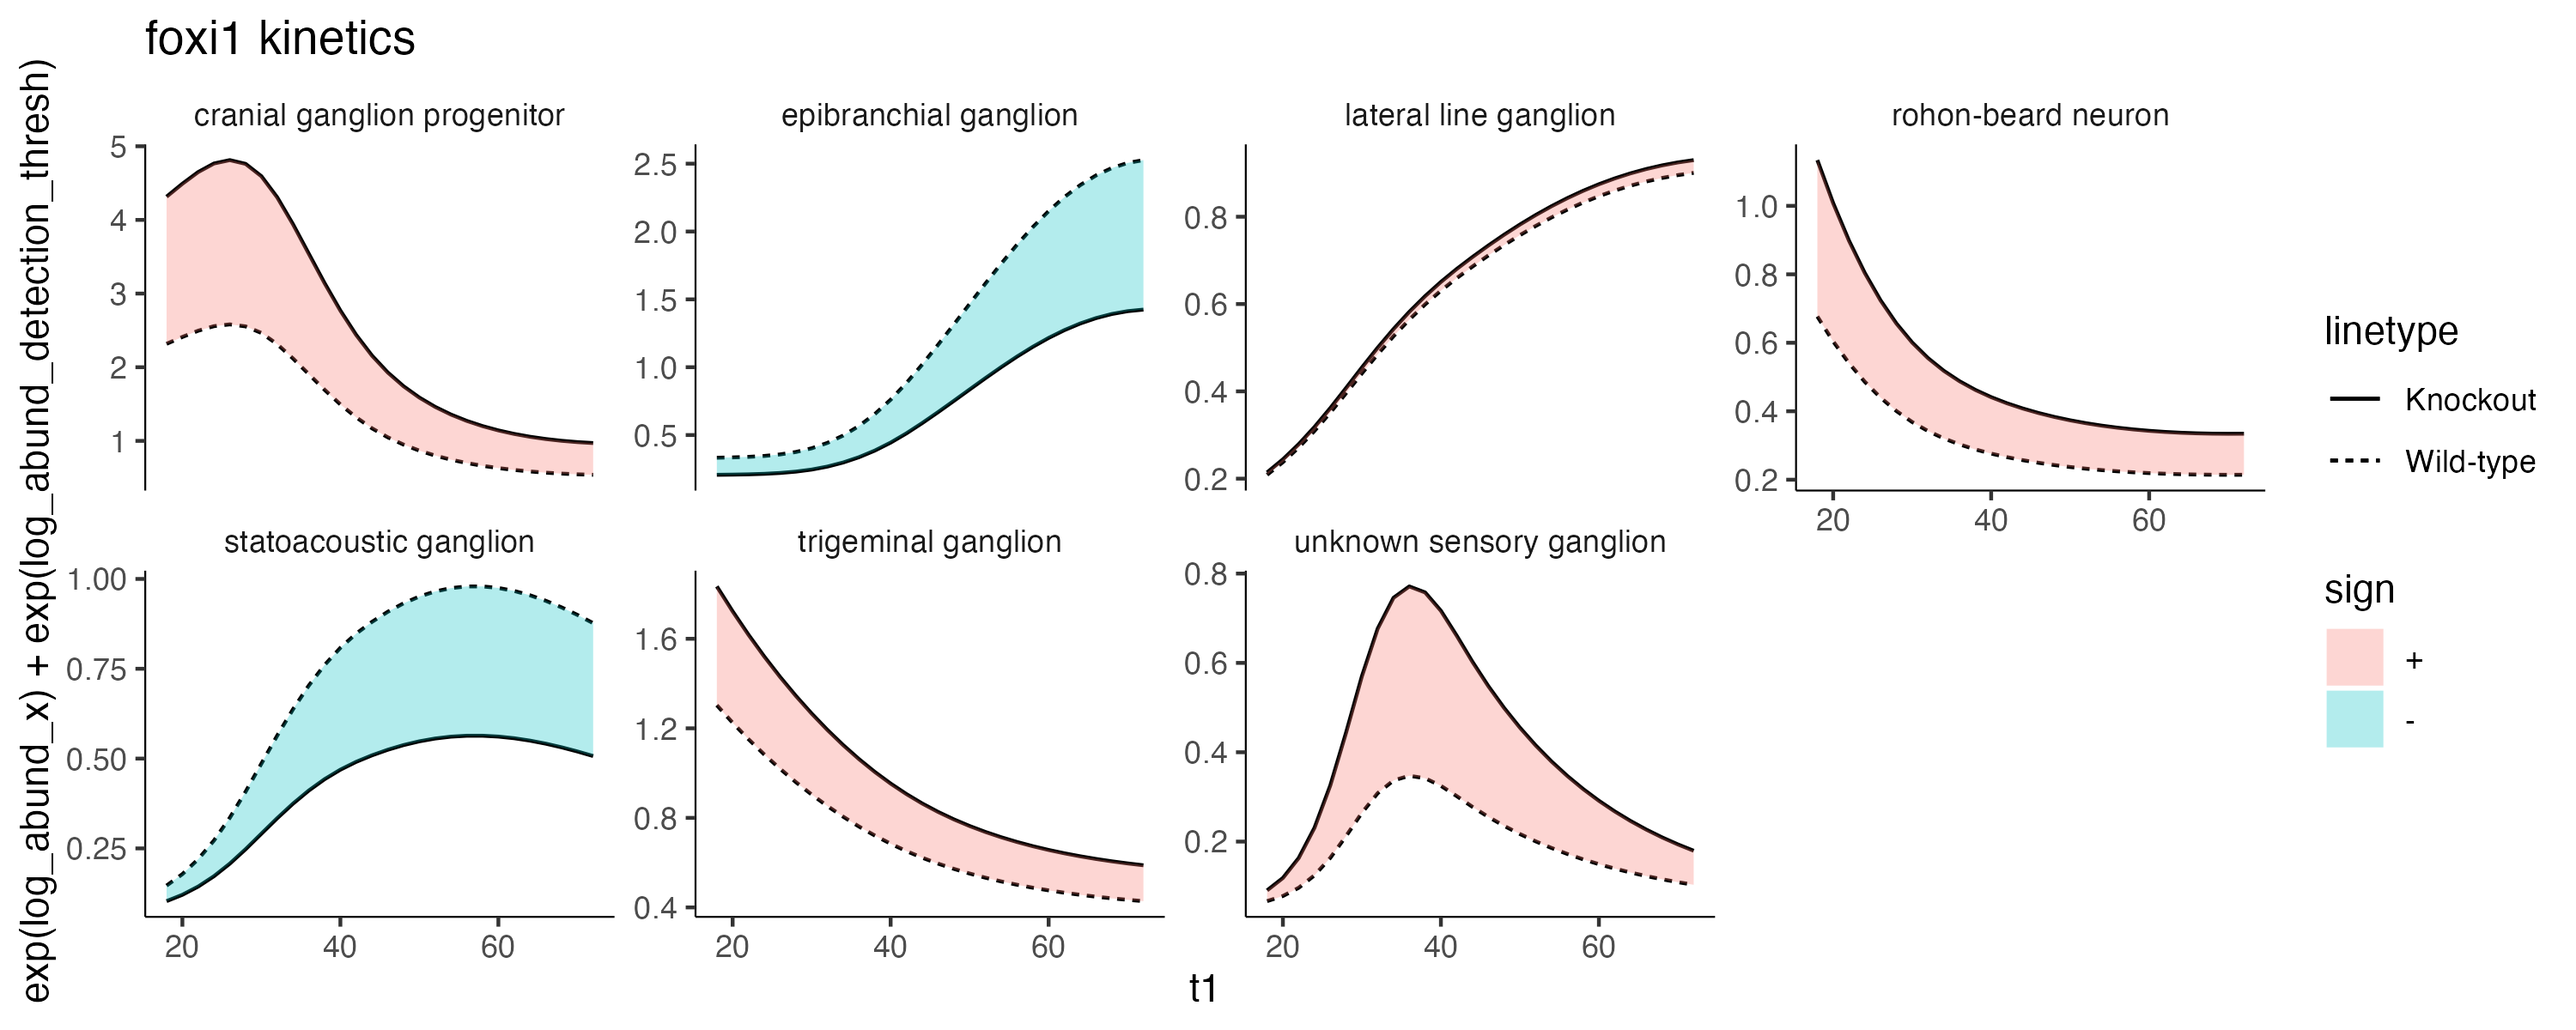
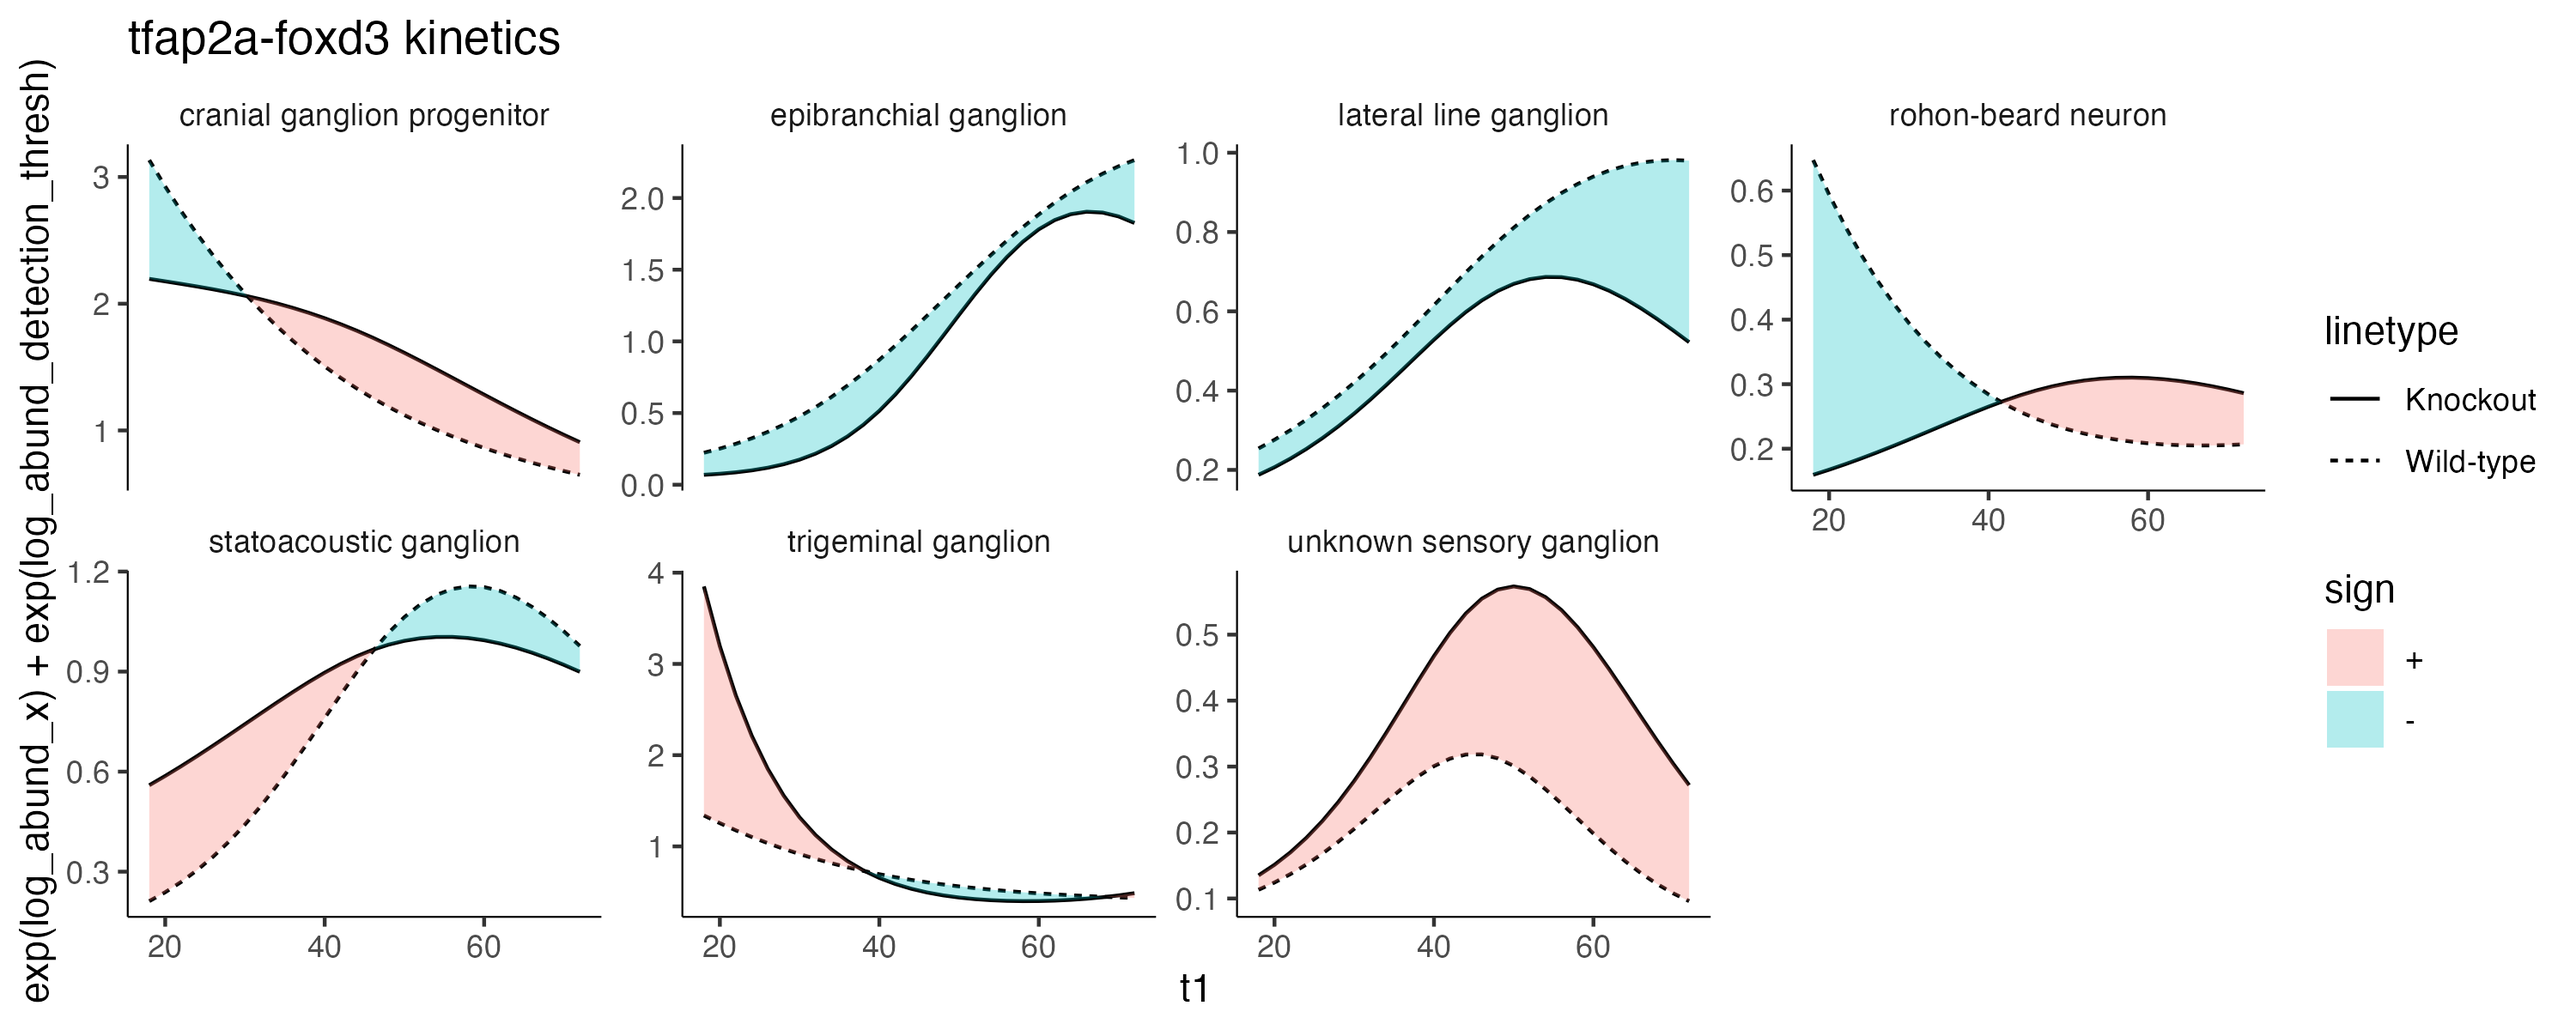
update time kinetics to interaction term

diff --git a/docs/advanced.md b/docs/advanced.md
@@ -51,7 +51,7 @@ We can fit a `cell_count_model` using this time formula and a perturbation term.
 
 ```
 ccm = new_cell_count_model(ccs, 
-                           main_model_formula_str = paste0(time_formula, "+ perturbation"))
+                           main_model_formula_str = paste0(time_formula, "* perturbation"))
 
 # predict for 48 hpf 
 cond_wt = estimate_abundances(ccm, tibble(timepoint = 48, perturbation = "control"))
@@ -141,51 +141,57 @@ We can also plot a given perturbation's kinetics against the wild type.
 
 ```
 
-foxi1_cds = cds[, colData(cds)$gene_target %in% c("foxi1", control_ids)]
-foxi1_ccs = new_cell_count_set(foxi1_cds, 
-                              sample_group = "embryo", 
-                              cell_group = "cell_type_sub")
+tfap2afoxd3_cds = cds[, colData(cds)$gene_target %in% c("tfap2a-foxd3", control_ids)]
 
-colData(foxi1_ccs)$timepoint = as.numeric(colData(foxi1_ccs)$timepoint)
+colData(tfap2afoxd3_cds)$gene_target = ifelse(colData(tfap2afoxd3_cds)$gene_target %in% control_ids, 
+                                              "control", colData(tfap2afoxd3_cds)$gene_target)
+                                              
+tfap2afoxd3_ccs = new_cell_count_set(tfap2afoxd3_cds, 
+                                     sample_group = "embryo", 
+                                     cell_group = "cell_type_sub")
+
+colData(tfap2afoxd3_ccs)$timepoint = as.numeric(colData(tfap2afoxd3_ccs)$timepoint)
 
                                 
 start_time = 18
 stop_time = 72
 
-time_formula = build_interval_formula(foxi1_ccs, num_breaks = 3, interval_start = 18, interval_stop = 72)
+time_formula = build_interval_formula(tfap2afoxd3_ccs, num_breaks = 3, interval_start = 18, interval_stop = 72)
 
-foxi1_ccm = new_cell_count_model(foxi1_ccs, 
-                                main_model_formula_str = paste0(time_formula, "+ perturbation"))
-                                
-wt_timepoint_pred_df = estimate_abundances_over_interval(foxi1_ccm, 
+
+tfap2afoxd3_ccm = new_cell_count_model(tfap2afoxd3_ccs, 
+                                .     main_model_formula_str = paste0(time_formula, "* perturbation" ))
+                             
+wt_timepoint_pred_df = estimate_abundances_over_interval(tfap2afoxd3_ccm, 
                                                                  interval_start=start_time, 
                                                                  interval_stop=stop_time, 
                                                                  interval_col="timepoint", 
                                                                  interval_step=2, 
                                                                  perturbation = "control")
 
-ko_timepoint_pred_df = estimate_abundances_over_interval(foxi1_ccm, 
+ko_timepoint_pred_df = estimate_abundances_over_interval(tfap2afoxd3_ccm, 
                                                                  interval_start=start_time, 
                                                                  interval_stop=stop_time, 
                                                                  interval_col="timepoint", 
                                                                  interval_step=2, 
-                                                                 perturbation = "foxi1")
+                                                                 perturbation = "tfap2a-foxd3")
 timepoints = seq(start_time, stop_time, 2)
 perturb_vs_wt_nodes = tibble(t1=timepoints) %>%
   mutate(comp_abund = purrr::map(.f = compare_ko_to_wt_at_timepoint,
                                  .x = t1,
-                                 perturbation_ccm=foxi1_ccm,
+                                 perturbation_ccm=tfap2afoxd3_ccm,
                                  interval_col="timepoint",
                                  wt_pred_df = wt_timepoint_pred_df,
                                  ko_pred_df = ko_timepoint_pred_df)) %>% 
   tidyr::unnest(comp_abund)
 
+log_abund_detection_thresh=-3
 
 ggplot(perturb_vs_wt_nodes, aes(x = t1)) +
   geom_line(aes(y = exp(log_abund_x) + exp(log_abund_detection_thresh), linetype = "Wild-type")) +
   geom_line(aes(y = exp(log_abund_y) + exp(log_abund_detection_thresh), linetype = "Knockout")) +
   ggh4x::stat_difference(aes(ymin = exp(log_abund_x)+exp(log_abund_detection_thresh), ymax = exp(log_abund_y) +exp(log_abund_detection_thresh)), alpha=0.3) + 
-  facet_wrap(~cell_group, scales="free_y", nrow=2) + monocle3:::monocle_theme_opts() + ggtitle("foxi1 kinetics")
+  facet_wrap(~cell_group, scales="free_y", nrow=2) + monocle3:::monocle_theme_opts() + ggtitle("tfap2afoxd3 kinetics")
 
 
 ```
